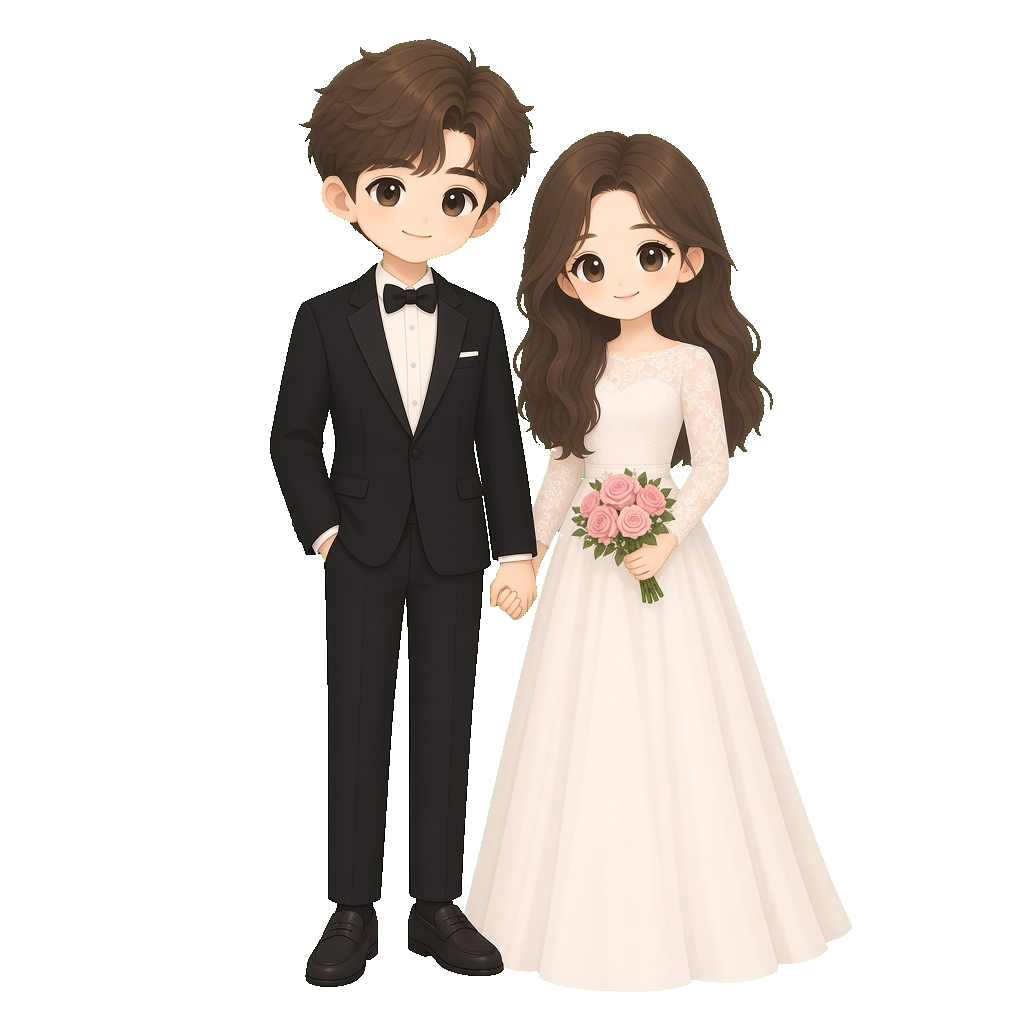
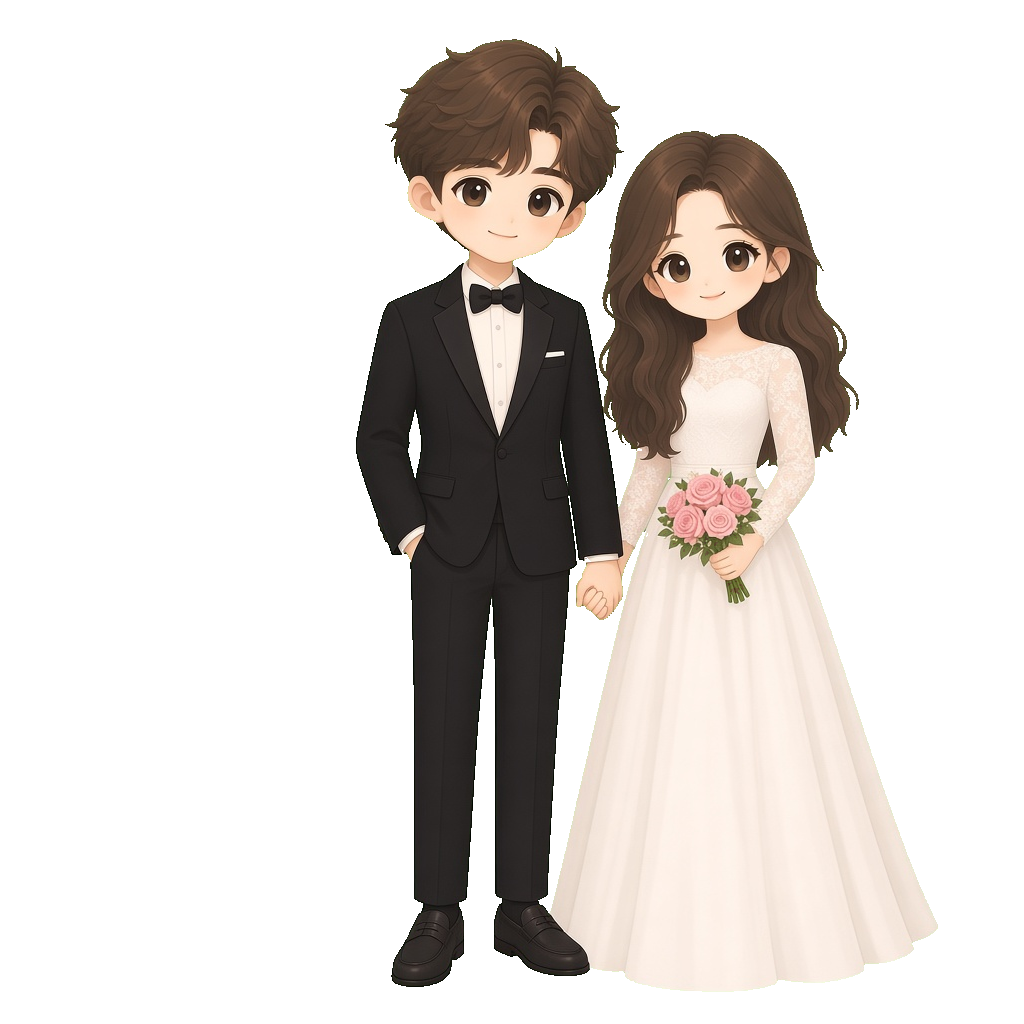
edit mobile scroll

Changed region(s): [[0.25, 0.0312, 0.9375, 0.9688]]

diff --git a/assets/css/cinematic.css b/assets/css/cinematic.css
@@ -2280,8 +2280,8 @@ body.isMenuOpen {
 .floatingCouple {
   --couple-scale: 1;
   position: fixed;
-  right: clamp(10px, 3vw, 14px);
-  bottom: var(--quick-nav-space);
+  right: 6px;
+  bottom: calc(4px + env(safe-area-inset-bottom, 0px));
   z-index: 40;
   width: clamp(115px, 31vw, 145px);
   pointer-events: none;
@@ -2349,8 +2349,8 @@ body.isScrollLocked .floatingCouple {
 
 @media (min-width: 768px) {
   .floatingCouple {
-    right: 22px;
-    bottom: calc(88px + env(safe-area-inset-bottom, 0px));
+    right: 8px;
+    bottom: calc(4px + env(safe-area-inset-bottom, 0px));
     width: clamp(140px, 14vw, 180px);
   }
 }

diff --git a/includes/components/share.php b/includes/components/share.php
@@ -4,7 +4,7 @@ $g = $weddingData['groom'];
 $b = $weddingData['bride'];
 $shareTitle = $g['name'] . ' ♥ ' . $b['name'] . ' 결혼식';
 ?>
-<section class="scene scene--share scene--flow" data-scene="share" data-couple-state="heart">
+<section class="scene scene--share scene--flow" data-scene="share" data-couple-state="ending">
     <button type="button" class="shareFilm__btn touchBtn" data-rsvp-open>참석 여부 전달하기</button>
     <button type="button" class="shareFilm__btn touchBtn" data-web-share data-share-title="<?= e($shareTitle) ?>">공유하기</button>
     <a class="shareFilm__calendar touchBtn" href="?action=calendar">캘린더에 저장</a>

diff --git a/includes/components/account.php b/includes/components/account.php
@@ -4,7 +4,7 @@ $accounts = $weddingData['accounts'];
 $hasGroom = !empty($accounts['groom']);
 $hasBride = !empty($accounts['bride']);
 ?>
-<section class="scene scene--account scene--flow" data-scene="account" data-couple-state="heart" id="account">
+<section class="scene scene--account scene--flow" data-scene="account" data-couple-state="ending" id="account">
     <div class="accountIntro">
         <button type="button" class="accountSheet__open touchBtn" data-account-open>마음 전하실 곳</button>
         <img

diff --git a/includes/components/guestbook.php b/includes/components/guestbook.php
@@ -1,7 +1,7 @@
 <?php
 /** @var array $weddingData */
 ?>
-<section class="scene scene--guestbook scene--flow" data-scene="guestbook" id="guestbook" data-couple-state="heart">
+<section class="scene scene--guestbook scene--flow" data-scene="guestbook" id="guestbook" data-couple-state="ending">
     <p class="sceneLabel">방명록</p>
     <p class="guestbook__lead">따뜻한 한마디를 남겨주세요</p>
 
